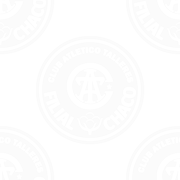
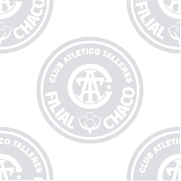
feat: pantalla de comienzo con INICIO.png, boton COMENZAR y actualizacion de trama de fondo

diff --git a/el_or_culo_albiazul.html b/el_or_culo_albiazul.html
@@ -47,7 +47,7 @@
       overflow-x: hidden;
       user-select: none;
       -webkit-user-select: none;
-      background-image: url('imagenes/trama_filial_chaco.png');
+      background-image: url('imagenes/trama_filial_chaco.png?v=2');
       background-repeat: repeat;
       background-size: 180px 180px;
     }
@@ -144,14 +144,14 @@
   <!-- Barra Superior Albiazul -->
   <header class="w-full bg-white/95 backdrop-blur-md border-b-2 border-slate-100 sticky top-0 z-40 px-4 py-3 shadow-sm">
     <div class="max-w-5xl mx-auto flex items-center justify-between">
-      <div class="flex items-center space-x-3">
+      <div class="flex items-center space-x-3 cursor-pointer select-none group" onclick="goToStartScreen()" title="Ir a la portada de inicio">
         <div
-          class="w-11 h-11 rounded-xl bg-albiazul-950 p-1 shadow-md flex items-center justify-center border-2 border-albiazul-600 overflow-hidden">
+          class="w-11 h-11 rounded-xl bg-albiazul-950 p-1 shadow-md flex items-center justify-center border-2 border-albiazul-600 overflow-hidden group-hover:scale-105 transition-transform">
           <img src="imagenes/logo_filial_chaco.png" alt="Logo Filial Chaco" class="w-full h-full object-contain">
         </div>
         <div>
           <h1
-            class="font-display font-black text-base sm:text-lg text-albiazul-950 tracking-tight leading-none uppercase">
+            class="font-display font-black text-base sm:text-lg text-albiazul-950 tracking-tight leading-none uppercase group-hover:text-blue-800 transition-colors">
             El
             Oráculo Albiazul</h1>
           <span class="text-[11px] sm:text-xs text-blue-700 font-bold tracking-wide uppercase">una idea de la Filial
@@ -178,8 +178,53 @@
 
   <main class="flex-1 w-full max-w-5xl mx-auto p-4 sm:p-6 lg:p-8 flex flex-col justify-center items-center relative">
 
+    <!-- PANTALLA 0: PORTADA DE COMIENZO -->
+    <div id="startScreen" class="w-full max-w-[340px] sm:max-w-[380px] mx-auto flex flex-col items-center animate-fadeIn my-auto py-1">
+      
+      <!-- Portada interactiva de Don Amadeo e Ídolos -->
+      <div onclick="startGame()"
+        class="group relative rounded-3xl overflow-hidden shadow-2xl border-2 border-slate-300/80 bg-white cursor-pointer active:scale-[0.98] transition-all duration-300 hover:shadow-blue-900/25 hover:border-blue-500 flex items-center justify-center">
+        <img src="imagenes/INICIO.png" alt="El Oráculo Albiazul - Comienzo"
+          class="max-h-[58vh] sm:max-h-[64vh] w-auto h-auto object-contain block select-none pointer-events-none group-hover:scale-[1.01] transition-transform duration-300" />
+        
+        <!-- Overlay sutil con invitación en hover -->
+        <div class="absolute inset-0 bg-gradient-to-t from-albiazul-950/60 via-transparent to-transparent opacity-0 group-hover:opacity-100 transition-opacity duration-300 flex items-end justify-center pb-4">
+          <span class="text-white text-xs font-black tracking-wider uppercase bg-albiazul-950/90 px-3.5 py-1.5 rounded-full backdrop-blur border border-sky-400/60 shadow-lg">
+            ¡Tocá para comenzar! 👆
+          </span>
+        </div>
+      </div>
+
+      <!-- BOTÓN PRINCIPAL DE COMIENZO -->
+      <button id="btnStartGame" onclick="startGame()"
+        class="w-full mt-3 py-3 sm:py-3.5 px-6 rounded-2xl bg-gradient-to-r from-albiazul-950 via-albiazul-900 to-blue-700 hover:from-blue-900 hover:to-sky-600 text-white font-display font-black text-base sm:text-lg uppercase tracking-wider shadow-xl shadow-blue-950/25 hover:shadow-sky-500/30 active:scale-95 transition-all duration-200 border-2 border-sky-400/50 flex items-center justify-center space-x-3 group">
+        <span class="text-xl group-hover:scale-125 group-hover:rotate-12 transition-transform">⚽</span>
+        <span>¡COMENZAR EL TEST!</span>
+        <span class="text-sky-300 font-black text-lg group-hover:translate-x-1.5 transition-transform">➔</span>
+      </button>
+
+      <!-- Fila de características / detalles rápidos -->
+      <div class="flex items-center justify-center flex-wrap gap-x-3 gap-y-1 mt-2.5 text-slate-600 text-[11px] sm:text-xs font-semibold text-center">
+        <span class="flex items-center space-x-1">
+          <span>🃏</span>
+          <span>27 Ídolos</span>
+        </span>
+        <span class="text-slate-300">•</span>
+        <span class="flex items-center space-x-1">
+          <span>🏟</span>
+          <span>Cancha, Video o Ni lo juno</span>
+        </span>
+        <span class="text-slate-300">•</span>
+        <span class="flex items-center space-x-1">
+          <span>🔮</span>
+          <span>Consejos de Don Amadeo</span>
+        </span>
+      </div>
+
+    </div>
+
     <!-- PANTALLA 1: MAZO TINDER ALBIAZUL -->
-    <div id="deckScreen" class="w-full max-w-md mx-auto flex flex-col items-center">
+    <div id="deckScreen" class="w-full max-w-md mx-auto flex flex-col items-center hidden">
 
       <!-- Progreso y botón de parada cordobés -->
       <div class="w-full flex items-center justify-between mb-3 px-1">
@@ -551,12 +596,19 @@
           </div>
         </div>
 
-        <!-- Botón reiniciar -->
-        <button onclick="restartTest()"
-          class="mt-4 text-xs font-bold text-slate-600 hover:text-blue-800 transition flex items-center space-x-1.5 pb-4">
-          <span>🔄</span>
-          <span>Volver a jugar de nuevo, culiau</span>
-        </button>
+        <!-- Botones de navegación final -->
+        <div class="mt-5 flex flex-col sm:flex-row items-center justify-center gap-3 pb-4">
+          <button onclick="restartTest()"
+            class="text-xs font-bold text-slate-800 hover:text-blue-950 bg-slate-100 hover:bg-slate-200 border border-slate-300 px-4 py-2.5 rounded-xl transition flex items-center space-x-1.5 shadow-sm active:scale-95">
+            <span>🔄</span>
+            <span>Volver a jugar de nuevo, culiau</span>
+          </button>
+          <button onclick="goToStartScreen()"
+            class="text-xs font-bold text-slate-600 hover:text-blue-800 transition flex items-center space-x-1.5 py-2 px-3 hover:underline">
+            <span>🏠</span>
+            <span>Pantalla de inicio</span>
+          </button>
+        </div>
 
       </div>
 
@@ -1111,6 +1163,40 @@
       }, 2200);
     }
 
+    function startGame() {
+      initAudio();
+      // Acorde triunfal de bienvenida con tres notas albiazules
+      playTone(523.25, 'triangle', 0.15);
+      setTimeout(() => playTone(659.25, 'triangle', 0.2), 100);
+      setTimeout(() => playTone(783.99, 'triangle', 0.28), 200);
+
+      document.getElementById('startScreen').classList.add('hidden');
+      document.getElementById('resultScreen').classList.add('hidden');
+      document.getElementById('deckScreen').classList.remove('hidden');
+
+      window.scrollTo({ top: 0, behavior: 'smooth' });
+    }
+
+    function goToStartScreen() {
+      currentCardIndex = 0;
+      votesProcessed = 0;
+      sessionHistory = [];
+      votesRegistry.cancha = { era70: 0, era90: 0, eraResurreccion: 0, eraModerna: 0 };
+      votesRegistry.video = { era70: 0, era90: 0, eraResurreccion: 0, eraModerna: 0 };
+      votesRegistry.no = { era70: 0, era90: 0, eraResurreccion: 0, eraModerna: 0 };
+
+      btnStopEl.classList.add('opacity-0', 'pointer-events-none', 'translate-y-1');
+      btnStopEl.classList.remove('opacity-100', 'translate-y-0');
+
+      document.getElementById('deckScreen').classList.add('hidden');
+      document.getElementById('resultScreen').classList.add('hidden');
+      document.getElementById('startScreen').classList.remove('hidden');
+
+      resetCardVisuals();
+      renderCard();
+      window.scrollTo({ top: 0, behavior: 'smooth' });
+    }
+
     function restartTest() {
       currentCardIndex = 0;
       votesProcessed = 0;
@@ -1122,6 +1208,7 @@
       btnStopEl.classList.add('opacity-0', 'pointer-events-none', 'translate-y-1');
       btnStopEl.classList.remove('opacity-100', 'translate-y-0');
 
+      document.getElementById('startScreen').classList.add('hidden');
       document.getElementById('resultScreen').classList.add('hidden');
       document.getElementById('deckScreen').classList.remove('hidden');
 
@@ -1137,6 +1224,15 @@
 
       // Atajos de teclado en PC / Desktop
       window.addEventListener('keydown', (e) => {
+        const startScreen = document.getElementById('startScreen');
+        if (startScreen && !startScreen.classList.contains('hidden')) {
+          if (e.key === ' ' || e.key === 'Enter') {
+            e.preventDefault();
+            startGame();
+            return;
+          }
+        }
+
         const deckScreen = document.getElementById('deckScreen');
         if (deckScreen && !deckScreen.classList.contains('hidden')) {
           if (e.key === 'ArrowLeft') {

diff --git a/index.html b/index.html
@@ -47,7 +47,7 @@
       overflow-x: hidden;
       user-select: none;
       -webkit-user-select: none;
-      background-image: url('imagenes/trama_filial_chaco.png');
+      background-image: url('imagenes/trama_filial_chaco.png?v=2');
       background-repeat: repeat;
       background-size: 180px 180px;
     }
@@ -144,14 +144,14 @@
   <!-- Barra Superior Albiazul -->
   <header class="w-full bg-white/95 backdrop-blur-md border-b-2 border-slate-100 sticky top-0 z-40 px-4 py-3 shadow-sm">
     <div class="max-w-5xl mx-auto flex items-center justify-between">
-      <div class="flex items-center space-x-3">
+      <div class="flex items-center space-x-3 cursor-pointer select-none group" onclick="goToStartScreen()" title="Ir a la portada de inicio">
         <div
-          class="w-11 h-11 rounded-xl bg-albiazul-950 p-1 shadow-md flex items-center justify-center border-2 border-albiazul-600 overflow-hidden">
+          class="w-11 h-11 rounded-xl bg-albiazul-950 p-1 shadow-md flex items-center justify-center border-2 border-albiazul-600 overflow-hidden group-hover:scale-105 transition-transform">
           <img src="imagenes/logo_filial_chaco.png" alt="Logo Filial Chaco" class="w-full h-full object-contain">
         </div>
         <div>
           <h1
-            class="font-display font-black text-base sm:text-lg text-albiazul-950 tracking-tight leading-none uppercase">
+            class="font-display font-black text-base sm:text-lg text-albiazul-950 tracking-tight leading-none uppercase group-hover:text-blue-800 transition-colors">
             El
             Oráculo Albiazul</h1>
           <span class="text-[11px] sm:text-xs text-blue-700 font-bold tracking-wide uppercase">una idea de la Filial
@@ -178,8 +178,53 @@
 
   <main class="flex-1 w-full max-w-5xl mx-auto p-4 sm:p-6 lg:p-8 flex flex-col justify-center items-center relative">
 
+    <!-- PANTALLA 0: PORTADA DE COMIENZO -->
+    <div id="startScreen" class="w-full max-w-[340px] sm:max-w-[380px] mx-auto flex flex-col items-center animate-fadeIn my-auto py-1">
+      
+      <!-- Portada interactiva de Don Amadeo e Ídolos -->
+      <div onclick="startGame()"
+        class="group relative rounded-3xl overflow-hidden shadow-2xl border-2 border-slate-300/80 bg-white cursor-pointer active:scale-[0.98] transition-all duration-300 hover:shadow-blue-900/25 hover:border-blue-500 flex items-center justify-center">
+        <img src="imagenes/INICIO.png" alt="El Oráculo Albiazul - Comienzo"
+          class="max-h-[58vh] sm:max-h-[64vh] w-auto h-auto object-contain block select-none pointer-events-none group-hover:scale-[1.01] transition-transform duration-300" />
+        
+        <!-- Overlay sutil con invitación en hover -->
+        <div class="absolute inset-0 bg-gradient-to-t from-albiazul-950/60 via-transparent to-transparent opacity-0 group-hover:opacity-100 transition-opacity duration-300 flex items-end justify-center pb-4">
+          <span class="text-white text-xs font-black tracking-wider uppercase bg-albiazul-950/90 px-3.5 py-1.5 rounded-full backdrop-blur border border-sky-400/60 shadow-lg">
+            ¡Tocá para comenzar! 👆
+          </span>
+        </div>
+      </div>
+
+      <!-- BOTÓN PRINCIPAL DE COMIENZO -->
+      <button id="btnStartGame" onclick="startGame()"
+        class="w-full mt-3 py-3 sm:py-3.5 px-6 rounded-2xl bg-gradient-to-r from-albiazul-950 via-albiazul-900 to-blue-700 hover:from-blue-900 hover:to-sky-600 text-white font-display font-black text-base sm:text-lg uppercase tracking-wider shadow-xl shadow-blue-950/25 hover:shadow-sky-500/30 active:scale-95 transition-all duration-200 border-2 border-sky-400/50 flex items-center justify-center space-x-3 group">
+        <span class="text-xl group-hover:scale-125 group-hover:rotate-12 transition-transform">⚽</span>
+        <span>¡COMENZAR EL TEST!</span>
+        <span class="text-sky-300 font-black text-lg group-hover:translate-x-1.5 transition-transform">➔</span>
+      </button>
+
+      <!-- Fila de características / detalles rápidos -->
+      <div class="flex items-center justify-center flex-wrap gap-x-3 gap-y-1 mt-2.5 text-slate-600 text-[11px] sm:text-xs font-semibold text-center">
+        <span class="flex items-center space-x-1">
+          <span>🃏</span>
+          <span>27 Ídolos</span>
+        </span>
+        <span class="text-slate-300">•</span>
+        <span class="flex items-center space-x-1">
+          <span>🏟</span>
+          <span>Cancha, Video o Ni lo juno</span>
+        </span>
+        <span class="text-slate-300">•</span>
+        <span class="flex items-center space-x-1">
+          <span>🔮</span>
+          <span>Consejos de Don Amadeo</span>
+        </span>
+      </div>
+
+    </div>
+
     <!-- PANTALLA 1: MAZO TINDER ALBIAZUL -->
-    <div id="deckScreen" class="w-full max-w-md mx-auto flex flex-col items-center">
+    <div id="deckScreen" class="w-full max-w-md mx-auto flex flex-col items-center hidden">
 
       <!-- Progreso y botón de parada cordobés -->
       <div class="w-full flex items-center justify-between mb-3 px-1">
@@ -551,12 +596,19 @@
           </div>
         </div>
 
-        <!-- Botón reiniciar -->
-        <button onclick="restartTest()"
-          class="mt-4 text-xs font-bold text-slate-600 hover:text-blue-800 transition flex items-center space-x-1.5 pb-4">
-          <span>🔄</span>
-          <span>Volver a jugar de nuevo, culiau</span>
-        </button>
+        <!-- Botones de navegación final -->
+        <div class="mt-5 flex flex-col sm:flex-row items-center justify-center gap-3 pb-4">
+          <button onclick="restartTest()"
+            class="text-xs font-bold text-slate-800 hover:text-blue-950 bg-slate-100 hover:bg-slate-200 border border-slate-300 px-4 py-2.5 rounded-xl transition flex items-center space-x-1.5 shadow-sm active:scale-95">
+            <span>🔄</span>
+            <span>Volver a jugar de nuevo, culiau</span>
+          </button>
+          <button onclick="goToStartScreen()"
+            class="text-xs font-bold text-slate-600 hover:text-blue-800 transition flex items-center space-x-1.5 py-2 px-3 hover:underline">
+            <span>🏠</span>
+            <span>Pantalla de inicio</span>
+          </button>
+        </div>
 
       </div>
 
@@ -1111,6 +1163,40 @@
       }, 2200);
     }
 
+    function startGame() {
+      initAudio();
+      // Acorde triunfal de bienvenida con tres notas albiazules
+      playTone(523.25, 'triangle', 0.15);
+      setTimeout(() => playTone(659.25, 'triangle', 0.2), 100);
+      setTimeout(() => playTone(783.99, 'triangle', 0.28), 200);
+
+      document.getElementById('startScreen').classList.add('hidden');
+      document.getElementById('resultScreen').classList.add('hidden');
+      document.getElementById('deckScreen').classList.remove('hidden');
+
+      window.scrollTo({ top: 0, behavior: 'smooth' });
+    }
+
+    function goToStartScreen() {
+      currentCardIndex = 0;
+      votesProcessed = 0;
+      sessionHistory = [];
+      votesRegistry.cancha = { era70: 0, era90: 0, eraResurreccion: 0, eraModerna: 0 };
+      votesRegistry.video = { era70: 0, era90: 0, eraResurreccion: 0, eraModerna: 0 };
+      votesRegistry.no = { era70: 0, era90: 0, eraResurreccion: 0, eraModerna: 0 };
+
+      btnStopEl.classList.add('opacity-0', 'pointer-events-none', 'translate-y-1');
+      btnStopEl.classList.remove('opacity-100', 'translate-y-0');
+
+      document.getElementById('deckScreen').classList.add('hidden');
+      document.getElementById('resultScreen').classList.add('hidden');
+      document.getElementById('startScreen').classList.remove('hidden');
+
+      resetCardVisuals();
+      renderCard();
+      window.scrollTo({ top: 0, behavior: 'smooth' });
+    }
+
     function restartTest() {
       currentCardIndex = 0;
       votesProcessed = 0;
@@ -1122,6 +1208,7 @@
       btnStopEl.classList.add('opacity-0', 'pointer-events-none', 'translate-y-1');
       btnStopEl.classList.remove('opacity-100', 'translate-y-0');
 
+      document.getElementById('startScreen').classList.add('hidden');
       document.getElementById('resultScreen').classList.add('hidden');
       document.getElementById('deckScreen').classList.remove('hidden');
 
@@ -1137,6 +1224,15 @@
 
       // Atajos de teclado en PC / Desktop
       window.addEventListener('keydown', (e) => {
+        const startScreen = document.getElementById('startScreen');
+        if (startScreen && !startScreen.classList.contains('hidden')) {
+          if (e.key === ' ' || e.key === 'Enter') {
+            e.preventDefault();
+            startGame();
+            return;
+          }
+        }
+
         const deckScreen = document.getElementById('deckScreen');
         if (deckScreen && !deckScreen.classList.contains('hidden')) {
           if (e.key === 'ArrowLeft') {
